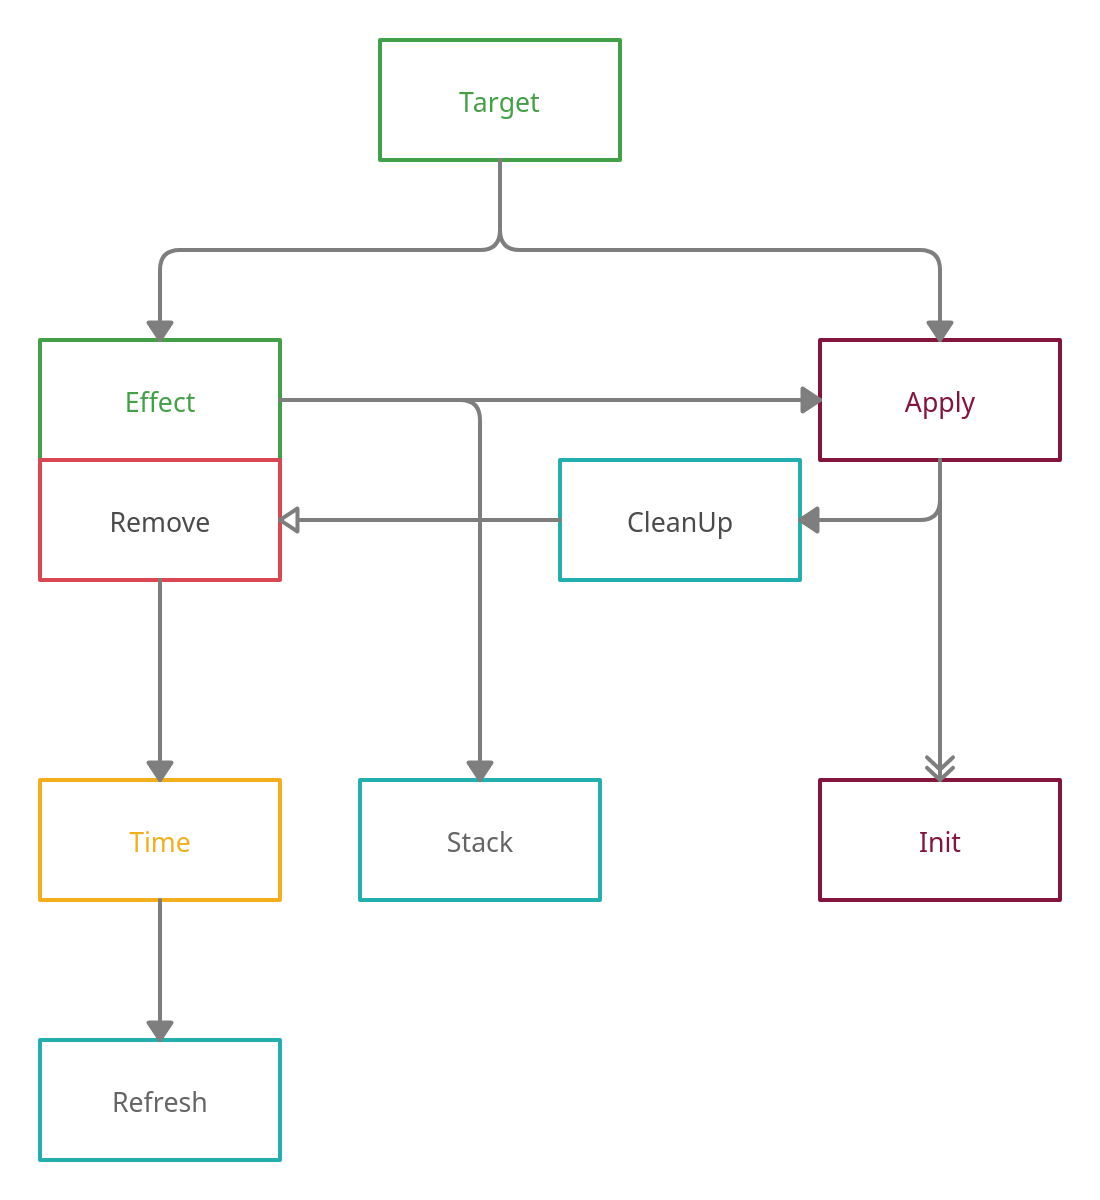
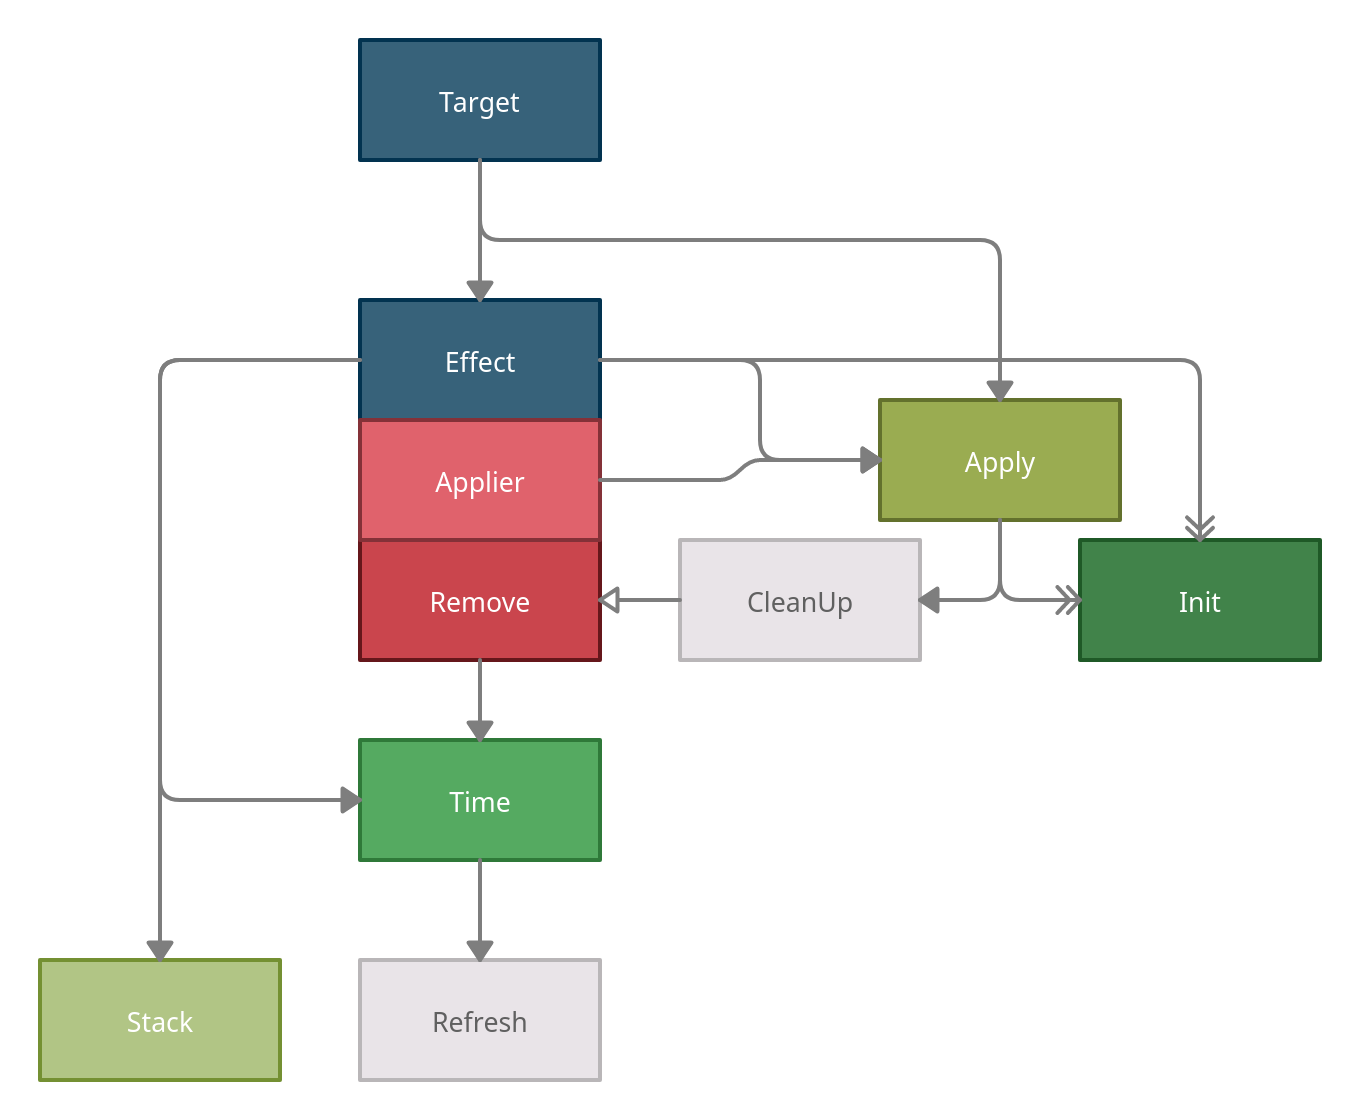
feat: updated component chart,

diff --git a/Assets/Scripts/ModifierSystem/Modifiers/TemplateModifiers.cs b/Assets/Scripts/ModifierSystem/Modifiers/TemplateModifiers.cs
@@ -10,7 +10,7 @@ namespace ModifierSystem
         private readonly ModifierPrototypesBase<Modifier> _modifierPrototypes;
 
         /// <summary>
-        ///     Absolute Full Modifier Setup Template, every value and component used. DoTStackRefresh
+        ///     Absolute Full Modifier Setup Template, every value and component used. ConditionDoTStackRefresh
         /// </summary>
         private void FullModifier()
         {

diff --git a/Assets/Scripts/ModifierSystem/Design.md b/Assets/Scripts/ModifierSystem/Design.md
@@ -25,37 +25,26 @@ Only components that should be initiated directly into modifier:
 ![ModifierFlowChart](ModifierFlowChart.png "Modifier Flow Chart")
 
 ## What interacts with what, component relations?   
-Green = Needed  
-Yellow & Brown = Needed Choice (or both)  
-Blue = Optional  
+Blue = Needed  
+Green = One Needed (holder of Effect), darker green = more common  
+Red = Different types of Effect  
+White = Optional  
 Blank arrow = Optional  
+Double arrow = Params  
 
 ![Components](ModifierComponents.png "Components")
 
 Must have: Target, Effect    
-One of: Time/(Apply+Init)  
+One of: Init/Time/Apply/Stack  
 Optional: CleanUp, Stack, Refresh  
-
-Remove is Effect, Effect is not Remove  
-% = Optional  
-[] = params
-
-* Target
-* Effect -> Target
-* Apply -> Effect                 (-> Target) & Target
-* Init -> Apply[]                 (-> Effect (-> Target) & Target)
-* CleanUp -> Apply                (-> Effect (-> Target) & Target)
-* Remove -> Modifier & CleanUp%   (-> Apply (-> Effect (-> Target) & Target))
-* Time -> Effect                  (-> Target)
-* Stack -> Effect                 (-> Target)
-* Refresh -> Time -> Remove       (-> Modifier & CleanUp% (-> Apply (-> Effect (-> Target) & Target)))
 
 Direct Order:  
 Modifier, Data,  
-Target, Effect, Apply, Init, CleanUp, Remove, Time, Stack, Refresh    
-Ideal order:  
+Target, Effect, Apply, Init, CleanUp, Remove, Time, Stack, Refresh  
+
+**Ideal order**:  
 Modifier, Data.  
-Target, Effect, Apply, CleanUp, Remove, TimeRemove, Stack, Refresh.  
+Target, Effect, Apply, CleanUp, Remove, TimeRemove.  
 Init, TimeEffect, Stack, Refresh   
 
 Making a modifier decision flow chart:  

diff --git a/Assets/Scripts/ModifierSystem/TODO.md b/Assets/Scripts/ModifierSystem/TODO.md
@@ -1,7 +1,6 @@
 TODO RN:  
 * Sort ideas by prio
-* >Fix diagram needing init & apply. Instead it needs init & apply or Stack
-  * >Fix diagram needing apply
+* >Being inheritance
 * More Applier shenanigans, not permanent modifiers, etc
 * More StackComponent Modifiers & Unit Tests
   * StackAdd Cooldown, and/or StackEffect Cooldown
@@ -20,6 +19,6 @@ TODO RN:
   * All mechanics & components
 * Unity UI for controlling beings and their values, modifiers, timers, etc (check how entitas does it, can't because it's closed source...)
 * UniqueId per new component?
-* Condition Apply (ex. (apply?) happens when player has more than 10 damage?)
-* >Ressurection EffectComponent?
+* >Condition Apply (ex. (apply?) happens when player has less/more than 10 X(damage, health, etc)?)
+* >Ressurection EffectComponent? Needs to be condition based though
 * Editor Window for prototypes/modifiers
